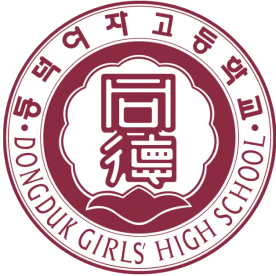
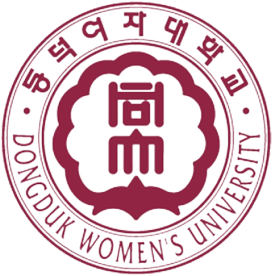
chore: 덕성여대로고, 각종 레이아웃 및 버그수정

diff --git a/src/@components/about/plan/planMobile/Timeline.jsx b/src/@components/about/plan/planMobile/Timeline.jsx
@@ -64,6 +64,13 @@ export default function Timeline() {
     6: 56.87,
   };
 
+  const getMonthText = (key) => {
+    if (key === 3) return '3월 초';
+    if (key === 4) return '3월 말';
+    if (key === 6) return '6-8월';
+    return `${key}월`;
+  };
+
   return (
     <S.TimelineWrapper>
       <Card data={TIMELINE_DATA[month]} $yOffset={MONTH_TEXT_Y_OFFSET[month]} $month={month} />
@@ -78,7 +85,7 @@ export default function Timeline() {
               className={`${key == month && 'active'} ${Number(key) < month && 'prev'}`}
               onClick={() => setMonth(Number(key))}
             >
-              {key == 6 ? '6-8' : key}월
+              {getMonthText(Number(key))}
             </S.MonthTextClickable>
           ))}
         </S.MonthTextWrapper>

diff --git a/src/@components/about/plan/planDesktop/Timeline.jsx b/src/@components/about/plan/planDesktop/Timeline.jsx
@@ -78,6 +78,13 @@ export default function Timeline() {
     6: 92,
   };
 
+  const getMonthText = (key) => {
+    if (key === 3) return '3월 초';
+    if (key === 4) return '3월 말';
+    if (key === 6) return '6-8월';
+    return `${key}월`;
+  };
+
   return (
     <>
       <Card data={TIMELINE_DATA[month]} $xOffset={monthTextXOffset} $month={month} />
@@ -92,7 +99,7 @@ export default function Timeline() {
               className={`${key == month && 'active'} ${Number(key) < month && 'prev'}`}
               onClick={() => setMonth(Number(key))}
             >
-              {key == 6 ? '6-8' : key}월
+              {getMonthText(Number(key))}
             </S.MonthTextClickable>
           ))}
         </S.MonthTextWrapper>

diff --git a/src/utilities/AboutData.js b/src/utilities/AboutData.js
@@ -33,12 +33,12 @@ export const TIMELINE_DATA = {
   },
   3: {
     Icon: Lightbulb,
-    title: '무박 2일, 팀 빌딩',
+    title: '팀 빌딩',
     description: '타 학교 미르미에게 자신의 아이디어를 공유하고\n함께 성장할 시너지있는 팀을 꾸려보아요.',
   },
   4: {
     Icon: BeotkkotSmall,
-    title: '2024 벚꽃톤',
+    title: '무박 2일, 벚꽃톤',
     description: '구름톤유니브의 하이라이트, 벚꽃톤!\n모든 미르미가 밤을 새워 아이디어를 실현하는 장이에요.',
   },
   5: {

diff --git a/src/@components/about/findingUniv/FindingUniv.jsx b/src/@components/about/findingUniv/FindingUniv.jsx
@@ -55,7 +55,7 @@ function FindingUniv() {
   }, []);
 
   const AutoScrollingImages = () => {
-    const doubledUniversities = [...Universities, ...Universities];
+    const doubledUniversities = [...Universities, ...Universities, ...Universities];
 
     return (
       <Container>
